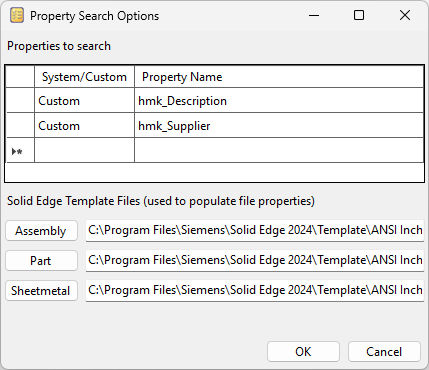
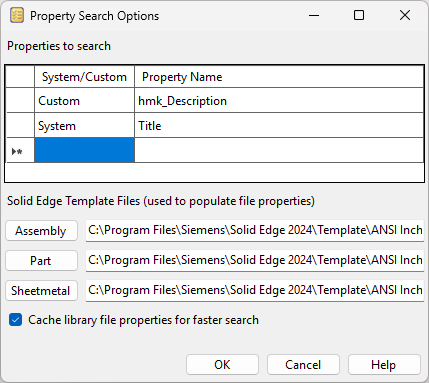
Documentation

diff --git a/Readme.md b/Readme.md
@@ -157,6 +157,9 @@ The material table is usually your normal SE material table.  However, for a qui
   - `Do not show processed files in the Most Recently Used list`  
 	Enable this option to keep the program from adding newly-generated standard parts to the Most Recently Used list.  Note this function was added to Solid Edge in version 2020.  If you are running an earlier version, this option must be disabled.
 	
+  - `Allow comma delimiters (experimental)`  
+	Allows the use of a comma as the decimal delimiter.  This is somewhat experimental because commas are not allowed `*.xml` headers.  There is a workaround in place, but has not been thouroughly tested.  Disabling this option causes causes commas to be replaced with periods in the `*.xml` file.
+	
   - `Check for new version at startup`  
 	If you don't need a reminder about new versions, disable the check here.
 
@@ -168,13 +171,19 @@ Additional settings for **Property Search** are accessed from that tab's toolbar
   <img src="media/property_search_options.png">
 </p>
 
-**Properties to Search**
+#### Properties to Search
 
 This is where you enter the names of the properties that hold the values you want to match.  You must also specify if the property is System or Custom.  System properties are in every Solid Edge file.  Custom properties are ones you define, probably in a template.
 
-**Solid Edge Template Files**
+#### Solid Edge Template Files
+
 
 These are your normal template files, not the ones used by the program to create standard parts.  They are needed to populate the available properties, and to determine what language is in use.
+
+#### Options
+
+- `Cache library file properties for faster search`  
+  Reads all file properties and saves them in a separate file.  This can speed up property searches for large libraries.  It takes some time to load the file initially; the status bar informs you of the progress.
 
 ### Localized SE Installations
 
